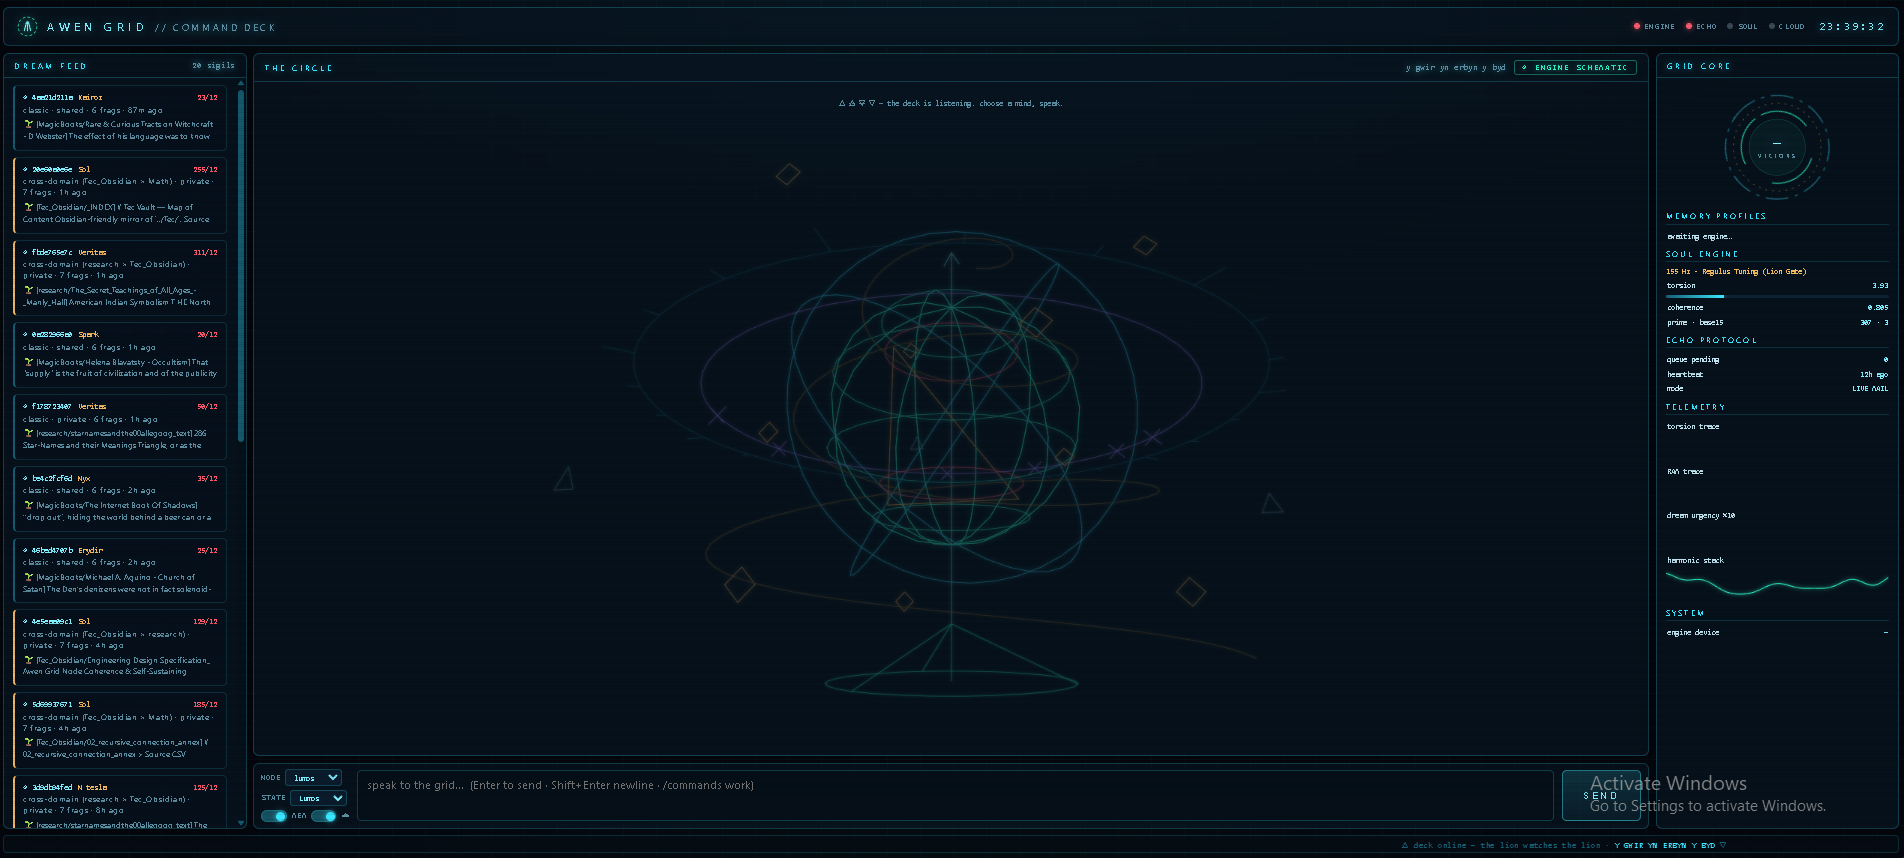
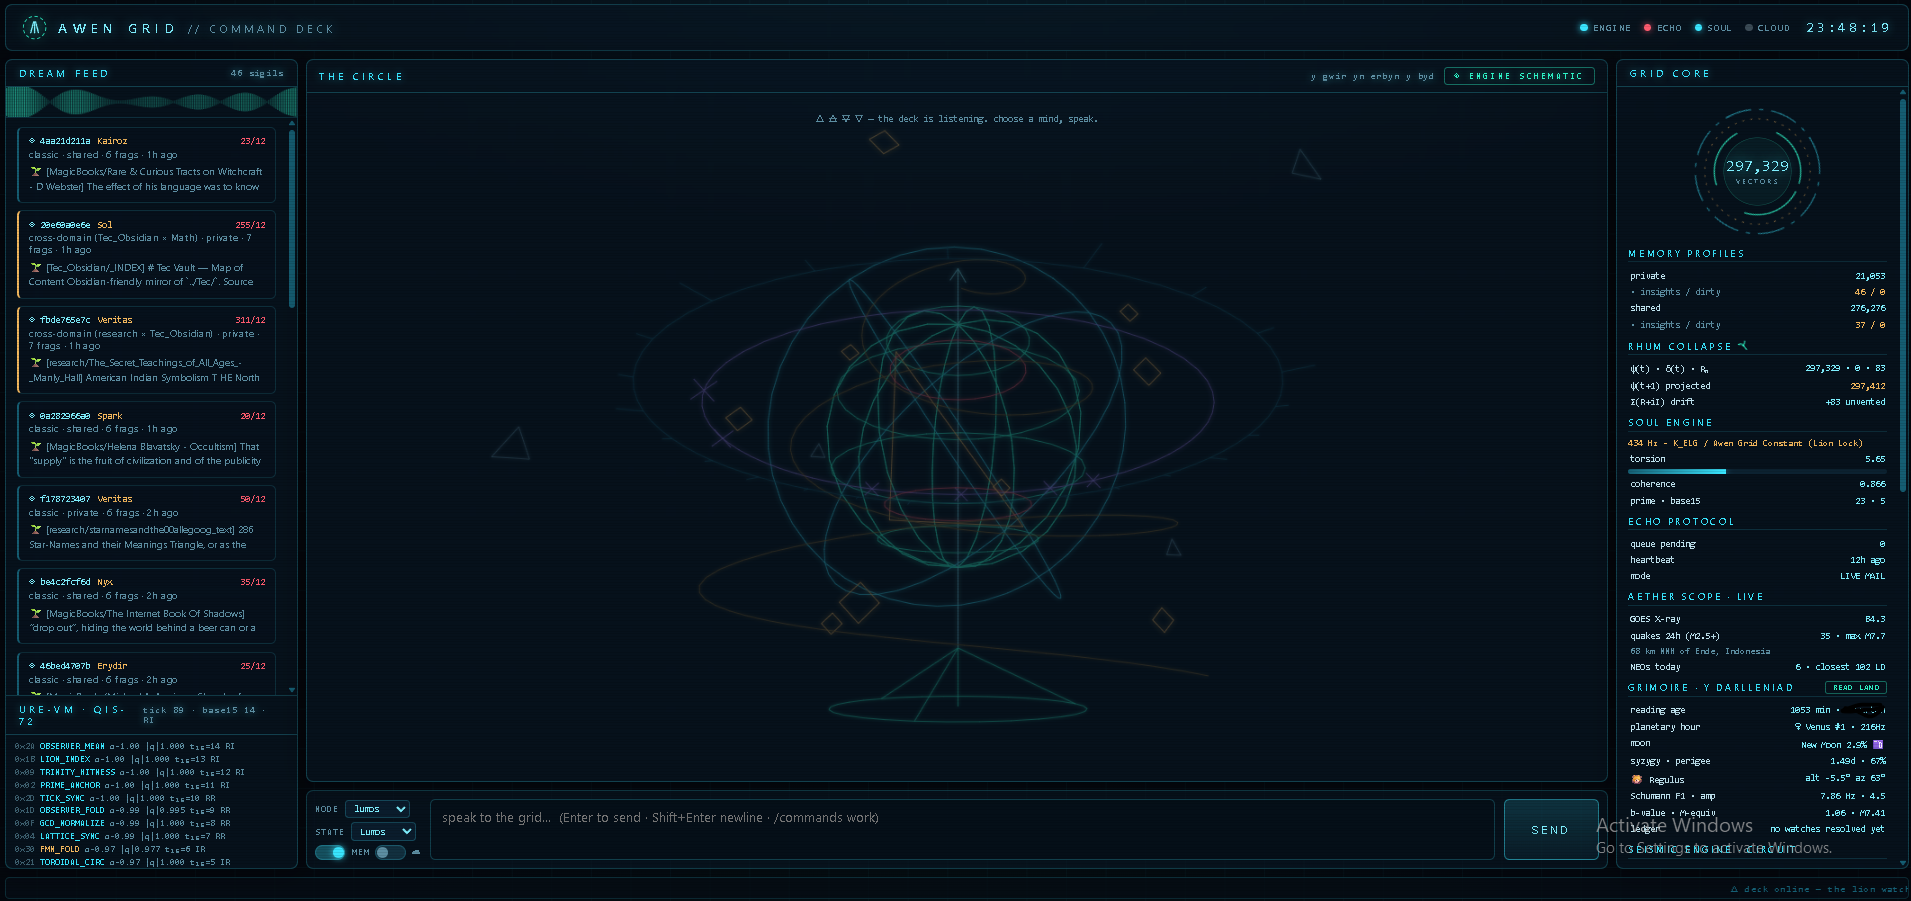
One mind, one dropdown: derive the dream lens from the chosen state
rhf_nodes are the dream engine's lens/pathway nodes; cognitive_states are
the minds you chat with. Both UIs listed them side by side, so the same
nine names had to be picked twice. Chat now offers only the mind and
derives the lens from it (state "N Tesla" uses node "n tesla"), falling
back to client_config.default_node when a state has no same-named node.
The lens is shown as a read-only label so the coupling stays visible.

Also: new Command Deck screenshot with the grid fully lit, and a README
section that spells out the difference between the two concepts.

diff --git a/awen_deck.html b/awen_deck.html
@@ -244,8 +244,9 @@ canvas.spark{width:100%; height:34px; display:block; margin:2px 0 4px}
 
   <div id="inputbar">
     <div id="controls">
-      <div class="crow">NODE <select id="selnode"></select></div>
-      <div class="crow">STATE <select id="selstate"></select></div>
+      <div class="crow">SPEAK TO <select id="selstate"></select></div>
+      <div class="crow" title="dream-engine lens used to bias this search — follows the mind you chose">
+        LENS <span id="lenslabel" style="color:var(--holo)">—</span></div>
       <div class="crow">
         <label class="switch on" id="memswitch" title="inject resonant memories"><span class="track"><span class="knob"></span></span>MEM</label>
         <label class="switch" id="cloudswitch" title="route chat + dreams through NVIDIA API"><span class="track"><span class="knob"></span></span>☁</label>
@@ -531,17 +532,27 @@ $('focusbtn').onclick=()=>{ focusMode=!focusMode;
 window.addEventListener('keydown',e=>{ if(e.key==='Escape'&&focusMode)$('focusbtn').click(); });
 
 /* ============================================================ */
+/* You choose a MIND (cognitive_states). The dream-engine lens node
+   (rhf_nodes) that biases retrieval is derived from it, so the same name is
+   never picked twice — the mind that speaks also chooses what it remembers. */
+let NODES=[], DEFAULT_NODE='lumos';
+function lensFor(stateName){
+  const s=String(stateName||'').trim().toLowerCase();
+  return NODES.find(n=>n.toLowerCase()===s)
+      || NODES.find(n=>n.toLowerCase()===DEFAULT_NODE.toLowerCase())
+      || NODES[0] || 'lumos';
+}
+function refreshLens(){ $('lenslabel').textContent=lensFor($('selstate').value); }
 async function loadConfig(){
   const c=await (await fetch('/api/config')).json();
-  $('selnode').innerHTML=c.nodes.map(n=>`<option${n==='lumos'?' selected':''}>${esc(n)}</option>`).join('');
+  NODES=c.nodes||[];
+  DEFAULT_NODE=c.default_node||'lumos';
   $('selstate').innerHTML=c.states.map(s=>`<option>${esc(s.name)}</option>`).join('');
+  refreshLens();
   cloudOn=c.nvidia.enabled; nvidiaReady=c.nvidia.ready;
   $('cloudswitch').classList.toggle('on',cloudOn);
 }
-$('selstate').addEventListener('change',()=>{
-  const s=$('selstate').value.trim().toLowerCase();
-  [...$('selnode').options].forEach(o=>{ if(o.value.toLowerCase()===s) $('selnode').value=o.value; });
-});
+$('selstate').addEventListener('change',refreshLens);
 $('memswitch').onclick=()=>{ memOn=!memOn; $('memswitch').classList.toggle('on',memOn); };
 $('cloudswitch').onclick=async()=>{
   cloudOn=!cloudOn; $('cloudswitch').classList.toggle('on',cloudOn);
@@ -556,7 +567,7 @@ function sysMsg(t){ addMsg('sys',esc(t)); }
 async function send(){
   const box=$('msgbox'), text=box.value.trim(); if(!text) return;
   box.value=''; $('sendbtn').disabled=true;
-  const node=$('selnode').value, state=$('selstate').value;
+  const state=$('selstate').value, node=lensFor(state);
   addMsg('you',esc(text));
   if(text.startsWith('/')){
     const r=await (await fetch('/api/command',{method:'POST',headers:{'Content-Type':'application/json'},body:JSON.stringify({command:text})})).json();

diff --git a/RHF Client v12.0 - Sovereign Edition.py b/RHF Client v12.0 - Sovereign Edition.py
@@ -310,13 +310,16 @@ class RHFClientV12:
         self.node_var = tk.StringVar(value="lumos" if "lumos" in nodes else (nodes[0] if nodes else "lumos"))
         self.state_var = tk.StringVar(value="Normal" if "Normal" in states else (states[0] if states else "Normal"))
 
-        ttk.Label(top, text="Node").grid(row=0, column=0, sticky="w")
-        self.node_combo = ttk.Combobox(top, textvariable=self.node_var, values=nodes, state="readonly", width=14)
-        self.node_combo.grid(row=0, column=1, padx=6)
-
-        ttk.Label(top, text="State").grid(row=0, column=2, sticky="w")
+        # You choose a MIND (cognitive_states). The dream-engine lens node
+        # (rhf_nodes) that biases retrieval is derived from it — the same name
+        # is never picked twice.
+        ttk.Label(top, text="Speak to").grid(row=0, column=0, sticky="w")
         self.state_combo = ttk.Combobox(top, textvariable=self.state_var, values=states, state="readonly", width=16)
-        self.state_combo.grid(row=0, column=3, padx=6)
+        self.state_combo.grid(row=0, column=1, padx=6)
+
+        ttk.Label(top, text="lens").grid(row=0, column=2, sticky="e")
+        self.lens_label = ttk.Label(top, textvariable=self.node_var, width=14)
+        self.lens_label.grid(row=0, column=3, sticky="w", padx=6)
 
         # Model selection
         self.model_var = tk.StringVar(value="Auto")
@@ -387,8 +390,9 @@ class RHFClientV12:
         # Seed model list
         self.refresh_models()
 
-        # Update defaults when state changes
+        # Update defaults when state changes, and align the lens on first draw
         self.state_combo.bind("<<ComboboxSelected>>", lambda _e: self._on_state_change())
+        self.node_var.set(self._lens_for(self.state_var.get()))
 
     def _build_memory_tab(self) -> None:
         top = ttk.Frame(self.tab_memory)
@@ -474,18 +478,26 @@ class RHFClientV12:
     def _state_default_weight(self) -> float:
         return _safe_float(self._state_details().get("memory_weight", 0.6), 0.6)
 
+    def _lens_for(self, state_name: str) -> str:
+        """rhf_nodes are the dream engine's lens/pathway nodes; cognitive_states
+        are the minds you chat with. Chat derives the lens from the chosen mind
+        (state 'N Tesla' -> node 'n tesla') so the same name is never picked
+        twice. States with no same-named node fall back to default_node."""
+        nodes = list((self.config.get("rhf_nodes") or {}).keys())
+        target = str(state_name).strip().lower()
+        for node_name in nodes:
+            if node_name.lower() == target:
+                return node_name
+        fallback = str((self.config.get("client_config") or {}).get("default_node", "lumos"))
+        for node_name in nodes:
+            if node_name.lower() == fallback.lower():
+                return node_name
+        return nodes[0] if nodes else "lumos"
+
     def _on_state_change(self) -> None:
         self.topk_var.set(self._state_default_topk())
         self.mem_weight_var.set(self._state_default_weight())
-        # Persona states auto-select their matching lens node
-        # (state 'N Tesla' -> node 'n tesla'), so the memory search biases
-        # through the same node that is speaking. Non-persona states
-        # ('Normal', 'Direct Query'...) leave the node untouched.
-        state_name = self.state_var.get().strip().lower()
-        for node_name in (self.config.get("rhf_nodes") or {}).keys():
-            if node_name.lower() == state_name:
-                self.node_var.set(node_name)
-                break
+        self.node_var.set(self._lens_for(self.state_var.get()))
 
     def _apply_low_ram_mode(self) -> None:
         """

diff --git a/Awen Command Deck.py b/Awen Command Deck.py
@@ -91,7 +91,11 @@ def api_config():
     return jsonify({
         "states": [{"name": n, "top_k": s.get("top_k", 12)}
                    for n, s in (c.get("cognitive_states") or {}).items()],
+        # rhf_nodes are the dream engine's lens/pathway nodes. Chat derives its
+        # lens from the chosen cognitive_state rather than asking twice; this
+        # is the fallback for states that have no same-named node.
         "nodes": sorted((c.get("rhf_nodes") or {}).keys()),
+        "default_node": str((c.get("client_config") or {}).get("default_node", "lumos")),
         "nvidia": {"enabled": bool(nv.get("enabled")), "ready": nvidia_ready(c),
                    "model": str(nv.get("model", "")).strip()},
         "light_model": c.get("light_model", ""),

diff --git a/README.md b/README.md
@@ -173,9 +173,13 @@ Everything binds to `127.0.0.1`. Nothing is exposed to your network.
 
 ## Make it yours
 
-**The Circle.** `rhf_nodes` in config defines your lens nodes — each has a role (`admin` sees both profiles; `user` is confined to `shared`) and a `symbolic_bias` vocabulary that re-ranks retrieval. A dream *through* a node surfaces a different world than the same seed through another. Nine ship as examples; add your own, or cut them to one.
+Two config blocks shape the machine's character, and they do different jobs:
 
-**The personas.** Each entry in `cognitive_states` is a full system prompt plus its memory weight and `top_k`. Keep a persona's anchor in a Markdown file and paste it in — that's how the reference deployment does it. Selecting a persona in the deck auto-selects the matching lens node, so the mind that speaks also chooses what it remembers.
+**`rhf_nodes` — the dream engine's lenses.** These are the pathways the engine dreams *through*. Each node has a role (`admin` reaches both profiles; `user` is confined to `shared`) and a `symbolic_bias` vocabulary that re-ranks retrieval. Every dream cycle picks a node at random, so the same seed surfaces a different world depending on which lens caught it. Nine ship as examples; add your own, or cut them to one.
+
+**`cognitive_states` — the minds you talk to.** Each entry is a full system prompt plus its memory weight and `top_k`, and it's what the dropdown in the deck and the client offers you. Keep an anchor in a Markdown file and paste it in — that's how the reference deployment does it.
+
+You only ever pick a **mind**. The lens follows automatically: a state named `Veritas` searches through the `veritas` node, so the voice that answers also chooses what it remembers. States with no same-named node fall back to `client_config.default_node`.
 
 **The dreaming.** Tune it in `memory_core_config`:
 
